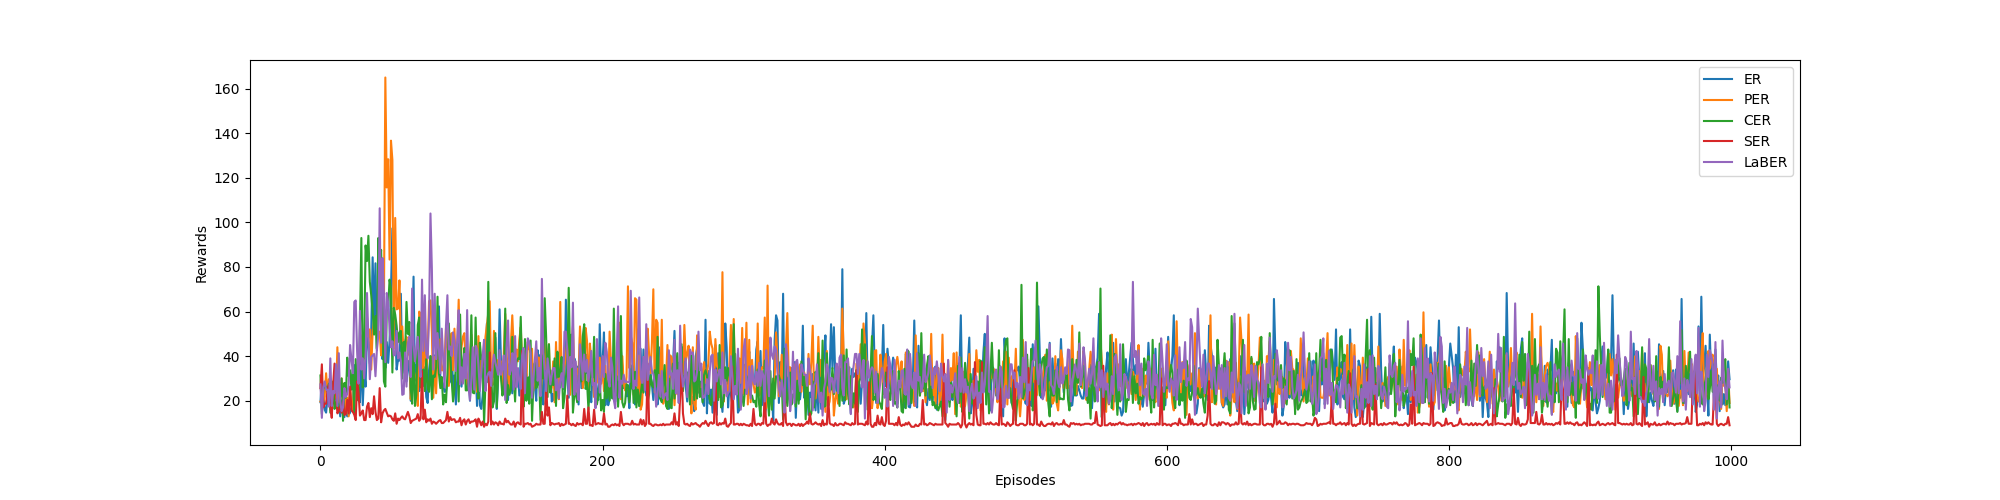
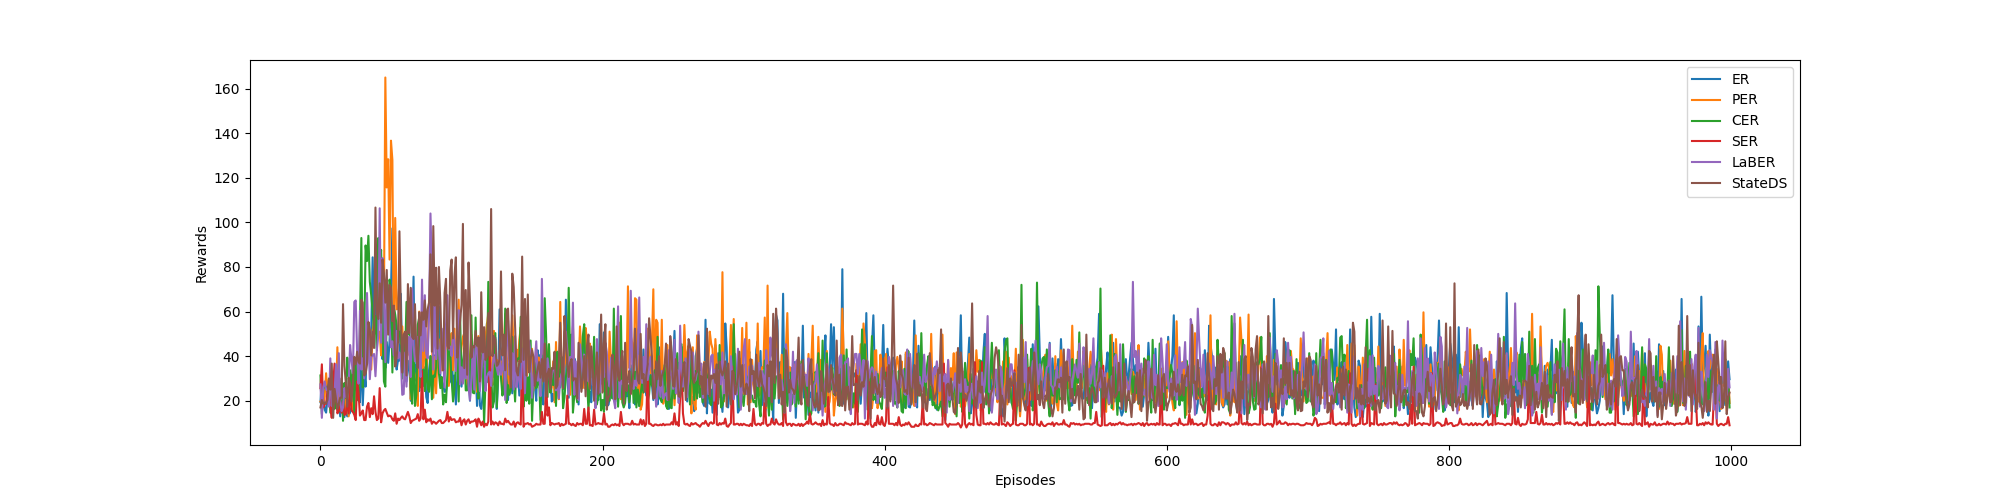
Combine plots including statedist

Changed region(s): [[0.155, 0.45, 0.868, 0.84], [0.837, 0.15, 0.899, 0.39]]

diff --git a/cartpole-v1/qn_statedist_nstep.py b/cartpole-v1/qn_statedist_nstep.py
@@ -1,0 +1,260 @@
+# Source from https://github.com/sorryformyself/tensorflow2_cartpole/blob/master/categorical/categorical.py
+import tensorflow as tf
+import gym
+import numpy as np
+import tensorflow.keras as keras
+from sklearn.cluster import KMeans
+import time
+import random
+from collections import deque
+import matplotlib.pyplot as plt
+import pickle
+
+tf.get_logger().setLevel('ERROR')
+episodes = 1000
+step_limit = 200
+memory_size = 100000
+env = gym.make('CartPole-v1')
+env.seed(777)
+state_size = env.observation_space.shape[0]
+action_size = env.action_space.n
+
+saveFileName = 'qn_statedist'
+
+def create_model(lr):
+    model = keras.Sequential([
+        keras.layers.Dense(128, activation='relu', input_shape=(state_size,)),
+        keras.layers.Dense(128, activation='relu'),
+        keras.layers.Dense(action_size, activation='relu')]
+    )
+
+    model.compile(optimizer=tf.keras.optimizers.Adam(lr),
+                  loss='mse',
+                  metrics=['accuracy'])
+    return model
+
+class DQNAgent:
+    def __init__(self):
+        # other hyperparameters
+        self.save_graph = True
+        self.isTraining = True
+        self.keepTraining = False
+        self.play = False
+        self.render = False
+        self.save_model = True
+        self.load_model = False
+        self.random = False
+        # epsilon greedy exploration
+        self.initial_epsilon = 1.0
+        self.epsilon = self.initial_epsilon
+        self.min_epsilon = 0.01
+        self.linear_annealed = (self.initial_epsilon - self.min_epsilon) / 2000
+        self.decay_rate = 0.995
+
+        # check the hyperparameters
+        if self.random == True:
+            self.play = False
+            self.isTraining = False
+        if self.play == True:
+            self.render = True
+            self.save_model = False
+            self.load_model = True
+            self.isTraining = False
+            self.keepTraining = False
+        if self.keepTraining == True:
+            self.epsilon = self.min_epsilon
+            self.load_model = True
+        # fixed q value - two networks
+        self.learning_rate = 0.0001
+        self.fixed_q_value_steps = 100
+        self.target_network_counter = 0
+
+        # n-step learning
+        self.n_step = 3
+        self.n_step_buffer = deque(maxlen=self.n_step)
+
+        # experience replay
+        self.batch_size = 64
+        self.gamma = 0.9
+        self.replay_start_size = 320
+        self.experience_replay = deque(maxlen=memory_size)
+        self.kmeans = None
+
+        self.load_model = True
+        if self.load_model:
+            self.model = keras.models.load_model(saveFileName + '.h5')
+            self.epsilon = self.min_epsilon
+            self.target_model = keras.models.load_model(saveFileName + '.h5')
+        else:
+            self.model = create_model(self.learning_rate)
+            self.target_model = create_model(self.learning_rate)
+            # self.target_model.predict(np.zeros((1,state_size)))
+
+    # n-step learning, get the truncated n-step return
+    def get_n_step_info(self, n_step_buffer, gamma):
+        """Return n step reward, next state, and done."""
+        # info of the last transition
+        reward, next_state, done = n_step_buffer[-1][-3:]
+
+        for transition in reversed(list(n_step_buffer)[:-1]):
+            r, n_s, d = transition[-3:]
+
+            reward = r + gamma * reward * (1 - d)
+            next_state, done = (n_s, d) if d else (next_state, done)
+
+        return reward, next_state, done
+
+    # these methods:sample,store are used in experience replay
+    def sample(self, n, re_eval=False):
+        """
+           Re-evaluate kmeans if re_eval=True"
+        """
+        n_clusters = 64
+        states = np.vstack([data[0] for data in self.experience_replay])
+        if re_eval:
+            self.kmeans = KMeans(n_clusters=n_clusters, random_state=0).fit(states)
+            labels = self.kmeans.labels_
+        else:
+            labels = self.kmeans.predict(states)
+        h = dict()
+        for c in range(n_clusters):
+            h[c] = (labels == c).sum()
+        counts = np.array([h[c] for c in labels])
+        probabilities = 1./ (n_clusters * counts)
+        return random.choices(self.experience_replay, weights=probabilities, k=n)
+
+    def store(self, experience):
+        # n_step
+        self.n_step_buffer.append(experience)
+        if len(self.n_step_buffer) == self.n_step:
+            reward, next_state, done = self.get_n_step_info(self.n_step_buffer, self.gamma)
+            state, action = self.n_step_buffer[0][:2]
+            self.experience_replay.append((state, action, reward, next_state, done))
+
+    def training(self, re_eval):
+        if len(self.experience_replay) >= self.replay_start_size:
+            batches = self.sample(self.batch_size, re_eval or len(self.experience_replay)==self.replay_start_size)
+            states = np.vstack([data[0] for data in batches])
+            actions = np.vstack([data[1] for data in batches])
+            rewards = np.vstack([data[2] for data in batches])
+            next_states = np.vstack([data[3] for data in batches])
+            dones = np.vstack([data[4] for data in batches])
+            self.train_body(states, actions, rewards, next_states, dones)
+
+    @tf.function
+    def train_body(self, states, actions, rewards, next_states, dones):
+        with tf.GradientTape() as tape:
+            td_errors = self._compute_td_error_body(states, actions, rewards, next_states, dones)
+            loss = tf.reduce_mean(tf.square(td_errors))
+        gradients = tape.gradient(loss, self.model.trainable_variables)
+        self.model.optimizer.apply_gradients(zip(gradients, self.model.trainable_variables))
+        return td_errors
+
+    @tf.function
+    def _compute_td_error_body(self, states, actions, rewards, next_states, dones):
+        rewards = tf.cast(tf.squeeze(rewards), dtype=tf.float32)
+        dones = tf.cast(tf.squeeze(dones), dtype=tf.bool)
+        actions = tf.cast(actions, dtype=tf.int32)  # (batch_size, 1)
+        batch_size_range = tf.expand_dims(tf.range(self.batch_size), axis=1)  # (batch_size, 1)
+
+        # get current q value
+        current_q_indexes = tf.concat(values=(batch_size_range, actions), axis=1)  # (batch_size, 2)
+        current_q = tf.gather_nd(self.model(states), current_q_indexes)  # (batch_size, )
+
+        # get target q value using double dqn
+        max_next_q_indexes = tf.argmax(self.model(next_states), axis=1, output_type=tf.int32)  # (batch_size, )
+        indexes = tf.concat(values=(batch_size_range,
+                                    tf.expand_dims(max_next_q_indexes, axis=1)), axis=1)  # (batch_size, 2)
+        target_q = tf.gather_nd(self.target_model(next_states), indexes)  # (batch_size, )
+
+        n_gamma = self.gamma ** self.n_step
+        target_q = tf.where(dones, rewards, rewards + n_gamma * target_q)  # (batch_size, )
+        # don't want change the weights of target network in backpropagation, so tf.stop_gradient()
+        # but seems no use
+        td_errors = tf.abs(current_q - tf.stop_gradient(target_q))
+        return td_errors
+
+    def acting(self, state):
+        if self.render:
+            env.render()
+        self.target_network_counter += 1
+        if self.target_network_counter % self.fixed_q_value_steps == 0:
+            self.target_model.set_weights(self.model.get_weights())
+        if self.epsilon > self.min_epsilon:
+            self.epsilon -= self.linear_annealed
+        if np.random.sample() <= self.epsilon:
+            return np.random.randint(action_size)
+
+        action = self._get_action_body(state).numpy()
+        return action
+
+    @tf.function
+    def _get_action_body(self, state):
+        qvalues = self.model(state)[0]
+        return tf.argmax(qvalues)
+
+
+num_trials = 1
+plot_rewards = []
+for k in range(num_trials):
+    print(f'trial {k}')
+    agent = DQNAgent()
+    trained = 800
+    with open('qn_statedist_nstep.pkl','rb') as f:
+        episode_rewards = list(pickle.load(f))
+        assert len(episode_rewards) == trained
+
+    if agent.isTraining:
+        scores_window = deque(maxlen=100)
+        start = time.time()
+        for episode in range(trained+1, episodes + 1):
+            rewards = 0
+            state = env.reset()
+            state = np.array([state])
+            steps = 0
+            while True:
+                action = agent.acting(state)
+                next_state, reward, done, _ = env.step(action)
+                rewards += reward
+                next_state = next_state[None, :]
+                reward = -10 if done else reward
+                agent.store((state, action, reward, next_state, done))
+                state = next_state
+                if episode < 500:
+                    interval = 50
+                else:
+                    interval = 100
+                agent.training(steps % interval == 0)
+                steps += 1
+                if done or steps >= step_limit:
+                    episode_rewards.append(rewards)
+                    scores_window.append(rewards)
+
+                    break
+            print('\rEpisode {}\tAverage Score: {:.2f}\tepsilon:{:.2f}'.format(episode,
+                                                                                                 np.mean(scores_window),
+                                                                                                 agent.epsilon), end="")
+
+            if np.mean(scores_window) > 195:
+                print("\nproblem solved in {} episode with {:.2f} seconds".format(episode, time.time() - start))
+                #break
+            if episode % 50 == 0:
+                print(f'Saving model at episode {episode}')
+                agent.model.save(saveFileName + '.h5')
+                with open('qn_statedist_nstep.pkl','wb') as f:
+                    pickle.dump(np.array(episode_rewards), f)
+            if episode % 100 == 0:
+                print("\nRunning for {:.2f} seconds".format(time.time() - start))
+    plot_rewards.append(np.array(episode_rewards))
+
+plt.figure(figsize=(20,5))
+plt.plot(np.arange(episodes), np.mean(plot_rewards, axis=0))
+plt.xlabel('Episodes')
+plt.ylabel('Rewards')
+plt.savefig('QN_statedist_nstep.png')
+print('plotted')
+
+with open('qn_statedist_nstep.pkl','wb') as f:
+    pickle.dump(np.mean(plot_rewards, axis=0), f)
+env.close()
+
